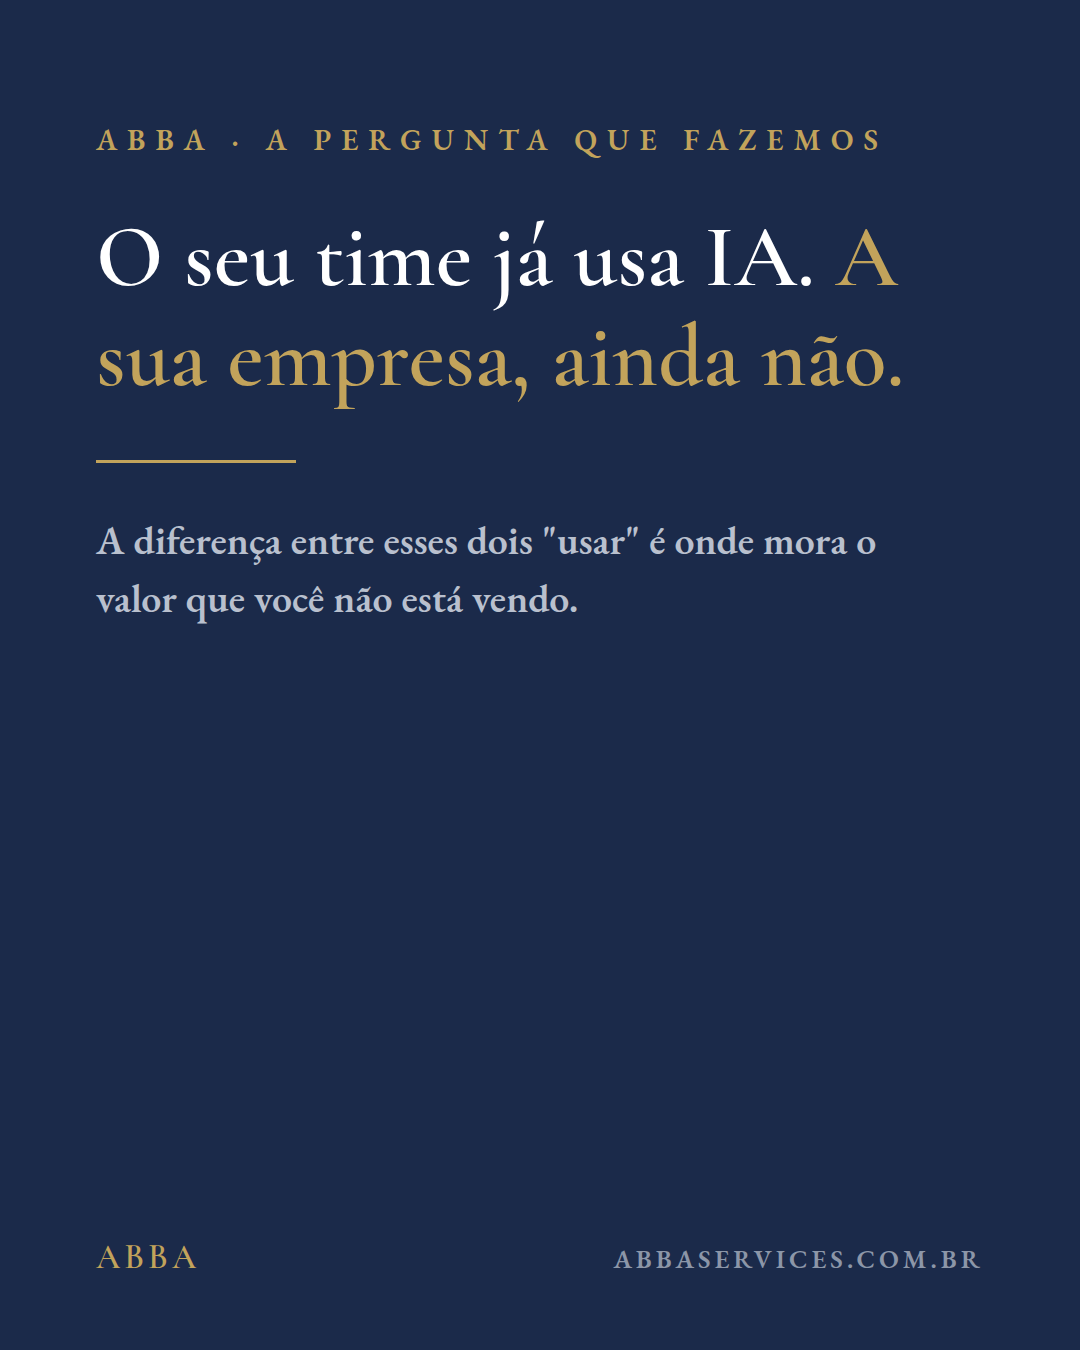
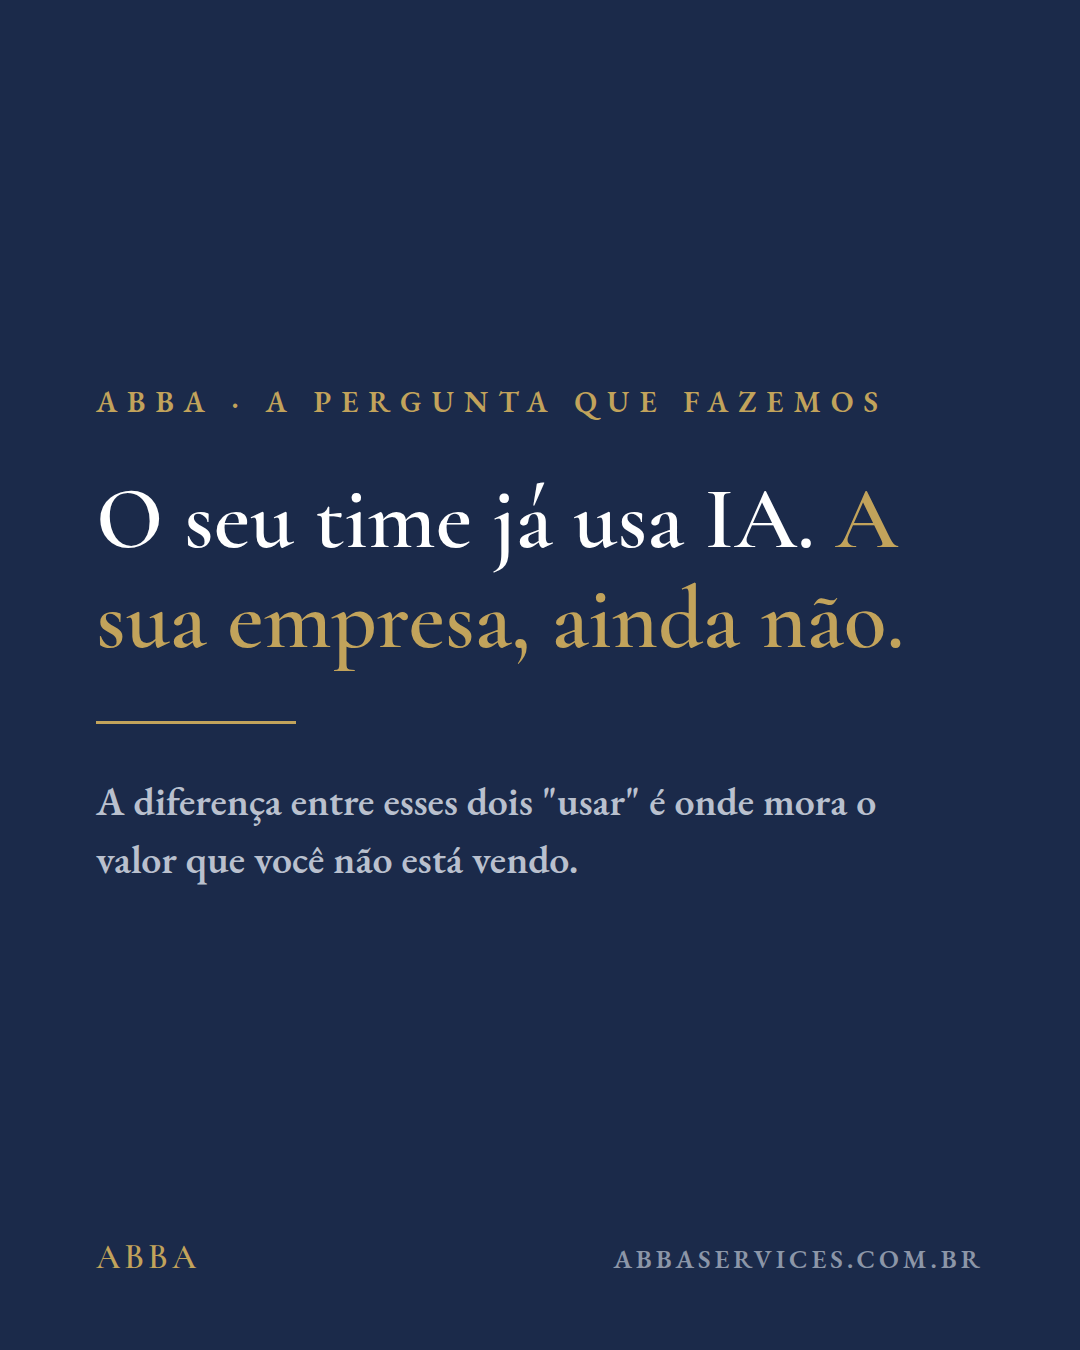
Refino de composicao dos 3 posts de lancamento
Blocos de texto equilibrados verticalmente (antes empilhados no topo
com metade do quadro vazio) e pernas da mesa espacadas para os
rotulos respirarem.

Claude-Session: https://claude.ai/code/session_01P1NuzuZ6oRdWWVA2eDhNti

diff --git a/08-materiais/marca/posts-lancamento.html b/08-materiais/marca/posts-lancamento.html
@@ -25,15 +25,17 @@
   .rodape span:first-child { font-family: 'Cormorant', serif; font-weight: 600;
             font-size: 34px; letter-spacing: 0.12em; }
 
-  .navy  { background: #1B2A4A; color: #FFFFFF; padding: 120px 96px; }
+  .navy  { background: #1B2A4A; color: #FFFFFF; padding: 120px 96px 200px;
+           display: flex; flex-direction: column; justify-content: center; }
   .navy h1 { font-family: 'Cormorant', serif; font-size: 88px; line-height: 1.14; font-weight: 600;
              max-width: 880px; margin: 48px 0 52px; }
   .navy h1 em { font-style: normal; color: #C2A35B; }
   .navy .sub { font-size: 40px; line-height: 1.45; color: #B9C0CE; max-width: 800px; }
   .navy .rodape { color: #8C96A8; } .navy .rodape span:first-child { color: #C2A35B; }
 
-  .branco { background: #FFFFFF; color: #1B2A4A; padding: 120px 96px; }
-  .branco .num { font-size: 42px; color: #C2A35B; margin-bottom: 24px; font-variant-numeric: tabular-nums; }
+  .branco { background: #FFFFFF; color: #1B2A4A; padding: 110px 96px 190px;
+            display: flex; flex-direction: column; justify-content: center; }
+  .branco .num { flex: 0 0 auto; font-size: 42px; color: #C2A35B; margin-bottom: 24px; font-variant-numeric: tabular-nums; }
   .branco h2 { font-family: 'Cormorant', serif; font-size: 66px; line-height: 1.18; font-weight: 600;
                margin-bottom: 44px; max-width: 880px; }
   .branco .filete { width: 160px; margin-bottom: 52px; }
@@ -172,14 +174,14 @@
   <div class="num">02 · 03</div>
   <h2>Os três pés crescem juntos</h2>
   <hr class="filete">
-  <svg class="mesa" width="620" height="240" viewBox="0 0 620 240">
-    <line x1="40" y1="50" x2="580" y2="50" stroke="#1B2A4A" stroke-width="10" stroke-linecap="round"/>
-    <line x1="120" y1="58" x2="120" y2="210" stroke="#C2A35B" stroke-width="8" stroke-linecap="round"/>
-    <line x1="310" y1="58" x2="310" y2="210" stroke="#C2A35B" stroke-width="8" stroke-linecap="round"/>
-    <line x1="500" y1="58" x2="500" y2="210" stroke="#C2A35B" stroke-width="8" stroke-linecap="round"/>
-    <text x="120" y="238" text-anchor="middle" font-family="EBGaramond" font-size="24" letter-spacing="3" fill="#5A6472">TECNOLOGIA</text>
-    <text x="310" y="238" text-anchor="middle" font-family="EBGaramond" font-size="24" letter-spacing="3" fill="#5A6472">PROCESSOS</text>
-    <text x="500" y="238" text-anchor="middle" font-family="EBGaramond" font-size="24" letter-spacing="3" fill="#5A6472">PESSOAS</text>
+  <svg class="mesa" width="860" height="250" viewBox="0 0 860 250">
+    <line x1="40" y1="50" x2="820" y2="50" stroke="#1B2A4A" stroke-width="10" stroke-linecap="round"/>
+    <line x1="150" y1="58" x2="150" y2="205" stroke="#C2A35B" stroke-width="8" stroke-linecap="round"/>
+    <line x1="430" y1="58" x2="430" y2="205" stroke="#C2A35B" stroke-width="8" stroke-linecap="round"/>
+    <line x1="710" y1="58" x2="710" y2="205" stroke="#C2A35B" stroke-width="8" stroke-linecap="round"/>
+    <text x="150" y="242" text-anchor="middle" font-family="EBGaramond" font-size="25" letter-spacing="3" fill="#5A6472">TECNOLOGIA</text>
+    <text x="430" y="242" text-anchor="middle" font-family="EBGaramond" font-size="25" letter-spacing="3" fill="#5A6472">PROCESSOS</text>
+    <text x="710" y="242" text-anchor="middle" font-family="EBGaramond" font-size="25" letter-spacing="3" fill="#5A6472">PESSOAS</text>
   </svg>
   <p>70% do valor da transformação em IA vive em <strong>pessoas, processos e cultura</strong>. O fornecedor típico vende só a tecnologia — e a mesa manca.</p>
   <p>Por isso instalamos os três ao mesmo tempo: sistemas sob medida, processos revisados, <strong>equipe inteira treinada</strong> — e somos agnósticos de ferramenta.</p>
